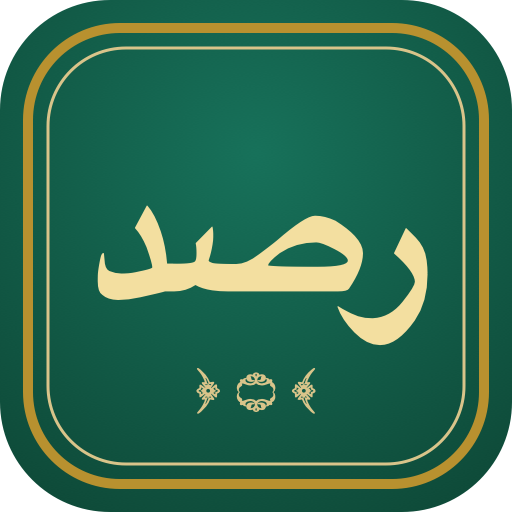
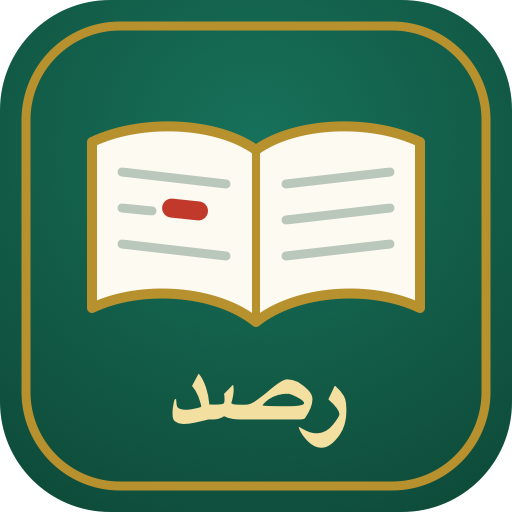
feat: شعار رصد — مصحف مفتوح بكلمة مرصودة حمراء، معتمد كأيقونة التطبيق وفي ترويسة الواجهة (SVG + PNG بكل المقاسات)

diff --git a/app/page.tsx b/app/page.tsx
@@ -1069,13 +1069,17 @@ export default function Home() {
     <main className="app-root flex-1 flex flex-col items-center gap-5 px-4 py-6">
       {/* الترويسة */}
       <header className="w-full max-w-xl flex flex-wrap items-center justify-between gap-2">
-        <div>
-          <h1 className="text-2xl font-extrabold" style={{ color: 'var(--green-deep)' }}>
-            📖 رصد
-          </h1>
-          <p className="text-xs font-semibold opacity-70">
-            مصحف إلكتروني — رواية حفص عن عاصم
-          </p>
+        <div className="brand">
+          {/* eslint-disable-next-line @next/next/no-img-element */}
+          <img src="/logo.png" alt="رصد" className="brand-logo" />
+          <div>
+            <h1 className="text-2xl font-extrabold" style={{ color: 'var(--green-deep)' }}>
+              رصد
+            </h1>
+            <p className="text-xs font-semibold opacity-70">
+              مصحف إلكتروني — رواية حفص عن عاصم
+            </p>
+          </div>
         </div>
         {user ? (
           <div className="account-chip">

diff --git a/app/globals.css b/app/globals.css
@@ -404,6 +404,20 @@ body {
   font-size: 12px;
 }
 
+/* ————— الشعار ————— */
+.brand {
+  display: flex;
+  align-items: center;
+  gap: 10px;
+}
+
+.brand-logo {
+  width: 46px;
+  height: 46px;
+  border-radius: 12px;
+  box-shadow: 0 3px 10px rgba(13, 69, 52, 0.3);
+}
+
 /* ————— الحساب ————— */
 .google-btn {
   display: inline-flex;